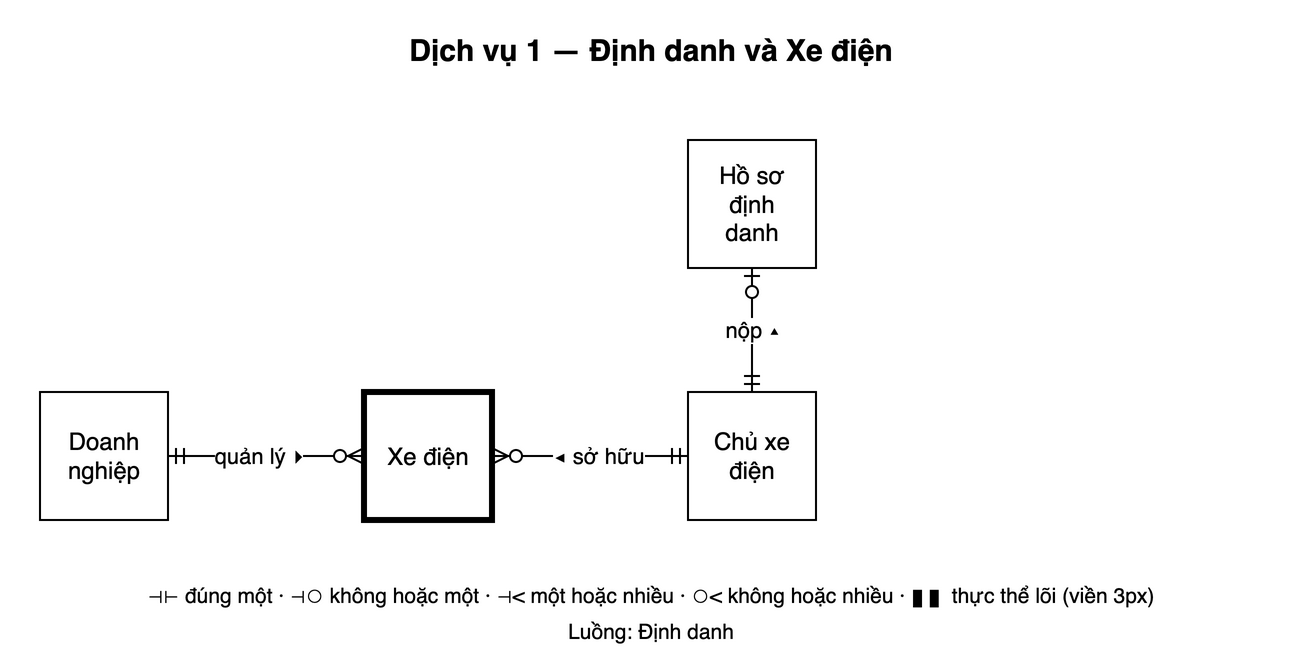
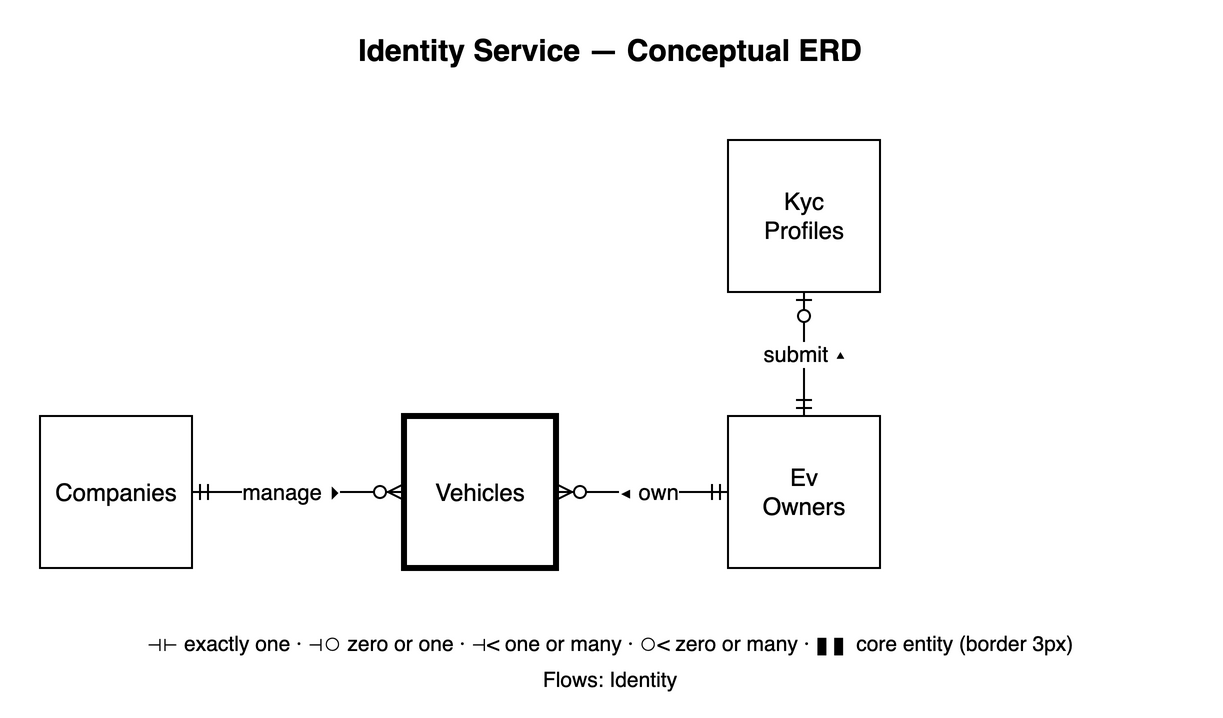
docs(erd,plan): switch ERDs to English and model Credit Holdings, Credit Movements, and Payout provenance

diff --git a/MASTER-PLAN.md b/MASTER-PLAN.md
@@ -51,8 +51,9 @@ Task nào đi ngược file này thì dừng lại và hỏi.
 
 ## 5. Dữ liệu và quy ước
 ### Quyết định
-- Mô hình thực thể khái niệm hợp nhất được định nghĩa tại `docs/diagrams/conceptual-erd.drawio` với thực thể lõi là `Lô tín chỉ` (19 thực thể nghiệp vụ, 18 quan hệ, 0 chu trình).
-- Quản lý lược đồ cơ sở dữ liệu hoàn toàn bằng **Flyway** (`src/main/resources/db/migration/V1..Vn`), đặt `spring.jpa.hibernate.ddl-auto=validate` ở môi trường production.
+- Mô hình thực thể khái niệm hợp nhất bằng tiếng Anh được định nghĩa tại `docs/diagrams/conceptual-erd.drawio` với thực thể lõi `Credit Batches` (21 thực thể, 20 quan hệ, 0 chu trình) và tách thành 5 sơ đồ độc lập theo service tại `docs/diagrams/services/01..05`.
+- Giải quyết triệt để 2 bài toán cốt lõi của sàn carbon: (1) `Credit Batches` tách thành `Credit Holdings` (tách phần sở hữu khi bán 80 / giữ 20 để triệt tiêu mà không sửa lô gốc) kèm sổ cái serial `Credit Movements`; (2) `Profit Distributions` sinh `Payout Items` lưu rõ `creditBatchId`, `batchCode`, `serialRange` và `sourceReportId` để chủ xe điện truy vết chính xác từng đồng tiền nhận vào `Wallets`.
+- Quản lý lược đồ cơ sở dữ liệu hoàn toàn bằng **Flyway** (`src/main/resources/db/migration/V1..Vn`), đặt `spring.jpa.hibernate.ddl-auto=validate` ở môi trường production; tên thực thể, bảng và code thống nhất tiếng Anh.
 - Mỗi Bounded Context sở hữu nhóm bảng riêng và tham chiếu sang module khác bằng định danh (`UUID`/`Long` ID), không tạo khoá ngoại vật lý chéo giữa các module.
 ### Lý do
 - Tách quyền sở hữu bảng và bỏ khoá ngoại chéo giúp việc bóc tách cơ sở dữ liệu theo từng microservice ở Pha 2 diễn ra không cần viết lại truy vấn.
